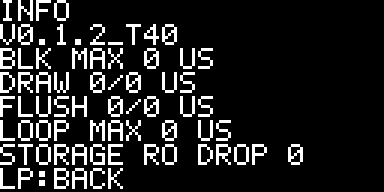
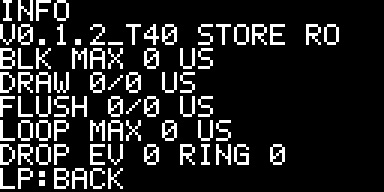
ui: phase 1d, the sampler's priority, the ring's drop count, the 1 kHz note

diff --git a/firmware/oc_ui.cpp b/firmware/oc_ui.cpp
@@ -13,8 +13,8 @@
  * the port's interface. So a generator's knobs are the same knobs the FM-1
  * shows, with the same ranges and the same names.
  *
- * Phase 1c, the shell: a 1 kHz sampler (an IntervalTimer of its own, below
- * the engine's tick) reads the six controls into a ring; the main loop drains
+ * Phase 1c, the shell: a 1 kHz sampler (an IntervalTimer of its own, on the
+ * engine tick's interrupt) reads the six controls into a ring; the main loop drains
  * it into the input core (parts/oc_ui_input.c), whose events go to the screen
  * router (parts/oc_ui_nav.c), and the router's actions are applied here, to
  * the engine, through the port. The screens: OVERVIEW (the old HOME), TRACK
@@ -252,13 +252,18 @@ static void ui_row_turn(const UiRow *row, int32_t steps)
 }
 
 /* --- the sampler --- */
-/* The six controls, read at 1 kHz by a timer of their own (below the
- * engine's tick, which keeps priority 80): the four buttons as a mask
+/* The six controls, read at 1 kHz by a timer of their own: the four buttons as a mask
  * (UI_BTN_*, pressed = LOW) and the two encoders' detents, into a ring the
  * main loop drains. The sampler starts only in normal mode (ui_start, from
  * setup, next to the tick): the safe mode and the crash pager read the
  * buttons themselves, as they always have. */
 #define UI_SAMPLE_US 1000u
+/* On the Teensy 4 every IntervalTimer shares the PIT's one interrupt, and it
+ * runs at the highest priority any running channel asked for: the tick's 80.
+ * 160 only says the sampler never raises it. The channels' callbacks run one
+ * after the other in that one handler, the tick's channel (begun first) checked
+ * first, so the sampler never preempts the tick; its body is about 1 us. The
+ * priority is set before begin(), so the channel never starts at the default. */
 #define UI_SAMPLE_PRIORITY 160
 
 static IntervalTimer ui_timer;
@@ -331,7 +336,7 @@ static void draw_rows(uint32_t n, uint32_t cur)
 static void draw_info(void)
 {
     char line[24];
-    snprintf(line, sizeof line, "v%s", OC_VERSION_STRING);
+    snprintf(line, sizeof line, "v%s STORE %s", OC_VERSION_STRING, oc_storage_ok() ? "RO" : "OFF");
     draw_line(1, line);
     snprintf(line, sizeof line, "BLK MAX %lu US", (unsigned long)oc_diag_blk_max_us());
     draw_line(2, line);
@@ -341,7 +346,9 @@ static void draw_info(void)
     draw_line(4, line);
     snprintf(line, sizeof line, "LOOP MAX %lu US", (unsigned long)ui_loop_max_us);
     draw_line(5, line);
-    snprintf(line, sizeof line, "STORAGE %s DROP %u", oc_storage_ok() ? "RO" : "OFF", (unsigned)ui_in.dropped);
+    /* the events the input core's queue dropped, and the samples the
+     * sampler's ring had no room for (their detents wait in the carry) */
+    snprintf(line, sizeof line, "DROP EV %u RING %lu", (unsigned)ui_in.dropped, (unsigned long)ui_ring.dropped);
     draw_line(6, line);
 }
 
@@ -562,6 +569,6 @@ void ui_init(void)
 void ui_start(void)
 {
     ui_in_init(&ui_in, ui_buttons_now(), millis());
-    ui_timer.begin(ui_sample, UI_SAMPLE_US);
     ui_timer.priority(UI_SAMPLE_PRIORITY);
+    ui_timer.begin(ui_sample, UI_SAMPLE_US);
 }

diff --git a/tests/oc_ui_test.c b/tests/oc_ui_test.c
@@ -372,6 +372,7 @@ static void check_ring(void)
         dl += sm.dl;
     }
     check("ring: 20 fast detents are 20 detents", n == 20 && dl == 20);
+    check("ring: a ring with room drops nothing", ring1.dropped == 0u);
 
     /* the ring fills up: the samples that do not fit wait in the carry */
     n = 0;
@@ -385,6 +386,7 @@ static void check_ring(void)
         dr += sm.dr;
     }
     check("ring: a full ring holds 64 samples", n == 64);
+    check("ring: the 36 samples that did not fit are counted", ring2.dropped == 36u);
     ui_ring_put(&ring2, 3000u, 0, 0, 0);
     while (ui_ring_get(&ring2, &sm)) {
         n++;

diff --git a/parts/oc_ui_input.c b/parts/oc_ui_input.c
@@ -203,8 +203,10 @@ void ui_ring_put(ui_ring_t *r, uint32_t ms, uint8_t buttons, int32_t dl, int32_t
     ui_sample_t *e;
     r->carry_l += dl;
     r->carry_r += dr;
-    if ((uint8_t)(h - r->tail) >= UI_RING)
-        return;                       /* full: the detents wait in the carry */
+    if ((uint8_t)(h - r->tail) >= UI_RING) {
+        r->dropped++;                 /* full: counted; the detents wait in the carry */
+        return;
+    }
     e = &r->buf[h & (UI_RING - 1u)];
     e->ms = ms;
     e->buttons = buttons;

diff --git a/parts/oc_ui_input.h b/parts/oc_ui_input.h
@@ -70,6 +70,7 @@ typedef struct {
 typedef struct {
     volatile uint8_t head, tail;
     int32_t carry_l, carry_r;
+    volatile uint32_t dropped;   /* samples that found the ring full (their detents wait in the carry) */
     ui_sample_t buf[UI_RING];
 } ui_ring_t;
 

diff --git a/CHANGELOG.md b/CHANGELOG.md
@@ -12,6 +12,11 @@ The port's releases. The version is the one the firmware carries
 ### UI, phase 1a: the input core (no change on the module yet)
 - `parts/oc_ui_input.c`: the buttons and encoders as events (5 ms debounce, tap ≤ 400 ms, hold from 400 ms, long at 600 ms, BOTTOM as shift (each event says whether BOTTOM is held), TOP + BOTTOM chord within `UI_CHORD_MS` = 40 ms either way round, boot-latched buttons ignored until released, value acceleration) and the 1 kHz sampler's ring. Host-tested in `tests/oc_ui_test.c`; not wired into the firmware until phase 1b. Plan: `docs/UI-PLAN.md`.
 
+### UI, phase 1d: the sampler's follow-ups
+- `firmware/oc_ui.cpp`: the sampler's timer priority is set before `begin()`, so the channel never starts at the framework's default. On the Teensy 4 all IntervalTimers share the PIT's one interrupt at the highest priority asked for (the tick's 80), so the 160 never raises it and the sampler runs after the tick in the same handler (1c said "below the tick"; the comments and the guide now say how it works).
+- `parts/oc_ui_input.c`: the ring counts the samples that find it full (`ui_ring_t.dropped`; their detents stay in the carry); INFO shows it as `RING`, next to the event queue's `DROP EV`, and the storage moves to the version line. Host-tested (`tests/oc_ui_test.c`, 2 checks).
+- `docs/UI-PLAN.md` §3.4: a note on why 1 kHz polling is fine for the detented encoders.
+
 ### UI, phase 1c: the shell
 - `firmware/oc_ui.cpp` is the UI's shell. A 1 kHz sampler (an IntervalTimer of its own, priority 160, below the tick's 80; started in normal mode only, next to the tick) reads the four buttons and the two encoders into the input core's ring; `ui_service()` in `loop()` drains it through the input core (`parts/oc_ui_input.c`) into the screen router (`parts/oc_ui_nav.c`) and applies the actions: play / stop, restart, the track, the tempo (not while following TR1), the value (with the acceleration), enter, the default.
 - The screens: OVERVIEW (the old HOME; the cursor on a `TRACK` row selects it, an R tap opens TRACK), TRACK with the GEN, SCL, CV and MOD tabs, PERFORM (the four tracks; its controls come in phase 5), PROJECT (load only, the storage is read only), INFO (the version, the longest engine block, the draw, flush and loop timings, the storage, the dropped events) and the screen menu (an L long press). The footers name the controls each screen answers.

diff --git a/docs/GUIDE.md b/docs/GUIDE.md
@@ -48,7 +48,8 @@ LEFT is play / stop as calibrated.
 The module has no gate jacks, no digital outs and no MIDI out.
 
 The controls are read 1000 times a second by a timer of their own
-(`ui_start` and `ui_service` in `firmware/oc_ui.cpp`), below the engine's tick.
+(`ui_start` and `ui_service` in `firmware/oc_ui.cpp`), which never delays the
+engine's tick by more than about a microsecond.
 A press counts after 5 ms; a press up to 400 ms is a tap. A button held through
 the power-on does nothing until it has been let go.
 
@@ -121,11 +122,14 @@ The storage is read only, so there is no save. Without a drive the screen says
 
 ![INFO (the timings read 0 in the host's picture)](img/screen-info.png)
 
-The version; the longest engine block since the power-on (`BLK MAX`); the last
-and the longest screen draw and flush, in microseconds; the longest gap between
-two passes of the main loop (from two seconds after the boot); the storage
-(`RO`, read only, or `OFF`); and how many control events were dropped. They
-start again at every boot.
+The version and the storage (`STORE RO`, read only, or `STORE OFF`); the
+longest engine block since the power-on (`BLK MAX`); the last and the longest
+screen draw and flush, in microseconds; the longest gap between two passes of
+the main loop (from two seconds after the boot); and what the controls lost:
+`DROP EV`, the events the input queue had no room for, and `RING`, the 1 ms
+samples the sampler's buffer had no room for (a turn's detents are kept even
+then; a button press shorter than the gap can be missed). They start again at
+every boot.
 
 ## The safe mode
 

diff --git a/docs/UI-PLAN.md b/docs/UI-PLAN.md
@@ -162,6 +162,17 @@ loop polling but make the flush page-sliced (§5.4) so a loop pass is never long
 **Pin modes untouched. Only reads.** (This touches interrupt configuration, so Acid Burn reviews it
 explicitly.)
 
+**Note (p1d): 1 kHz polling is fine for the detented encoders.** A detent is 4 quadrature states, and
+the quadrature table (`oc_enc_step`) only loses a step when both pins change between two samples, so
+1 kHz keeps every step up to 1000 state changes a second, 250 detents a second. A fast hand spin of a
+24-detent encoder (about 3 turns a second) is about 72 detents, 288 changes a second: a margin of
+about 3.5 for uneven phases and contact bounce. The ring holds 64 ms of samples; a sample that finds it
+full is counted (INFO's `RING`), and its detents are kept in the carry, so only a button level can
+be lost. On the Teensy 4 every IntervalTimer shares the PIT's one interrupt, which runs at the
+highest priority any channel asked for (the tick's 80): the sampler's 160 is set before `begin()` and
+never raises it, and its callback runs after the tick's in the same handler, so it never preempts
+the tick.
+
 ### 3.5 Acceptance criteria (phase 1)
 
 * All existing pages (HOME, GEN, SCL, CV, MOD, PROJ, re-homed as OVERVIEW / TRACK tabs / PROJECT) are reachable from the menu. The footer hint matches the real mapping on every screen.
